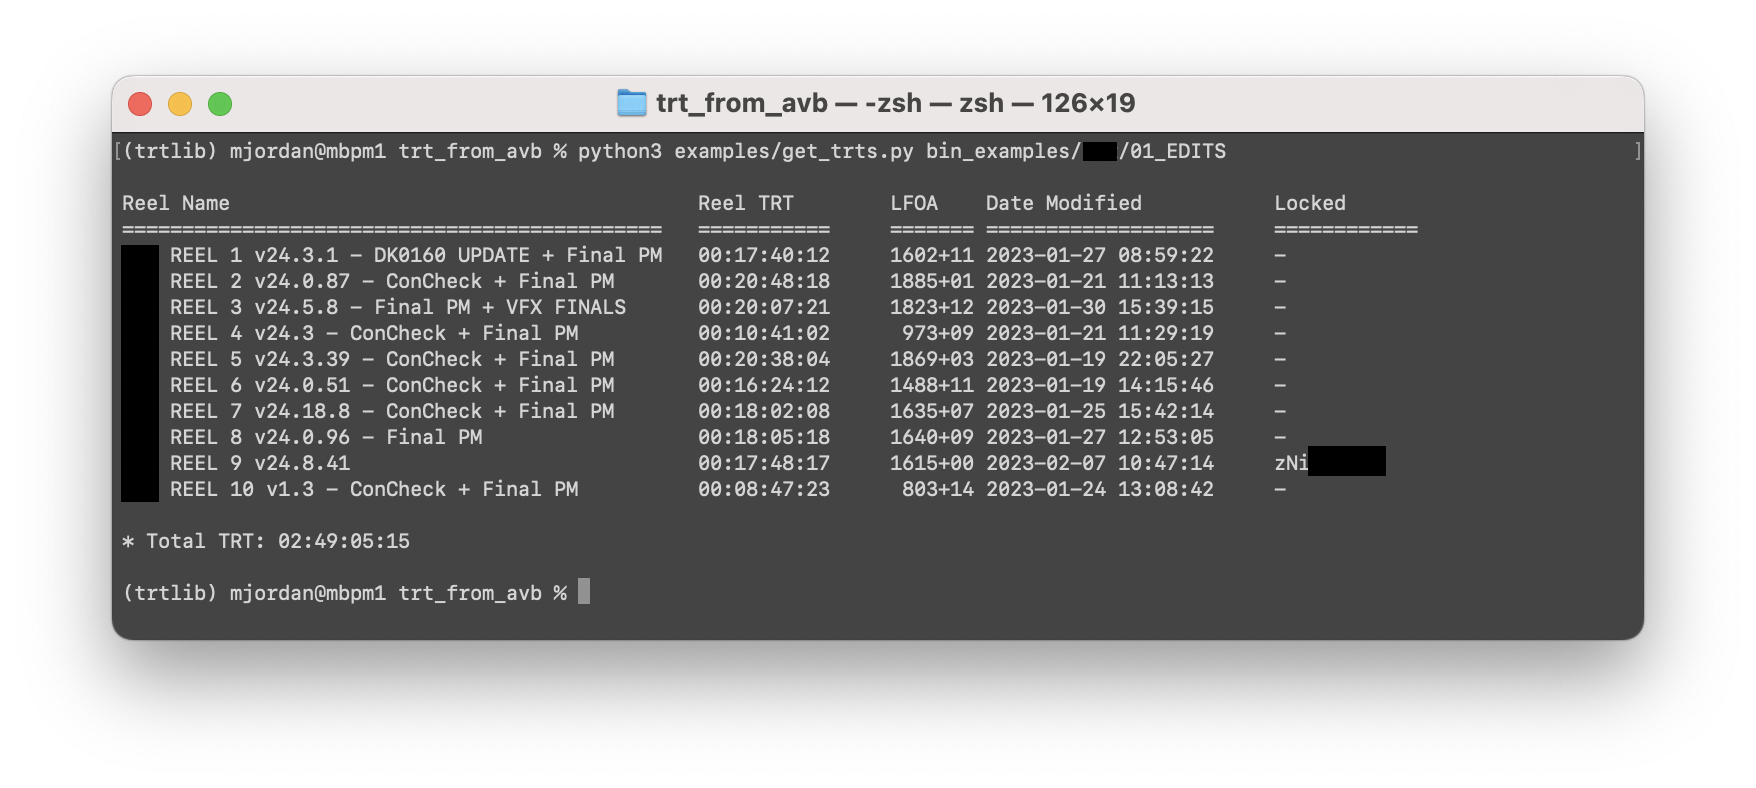
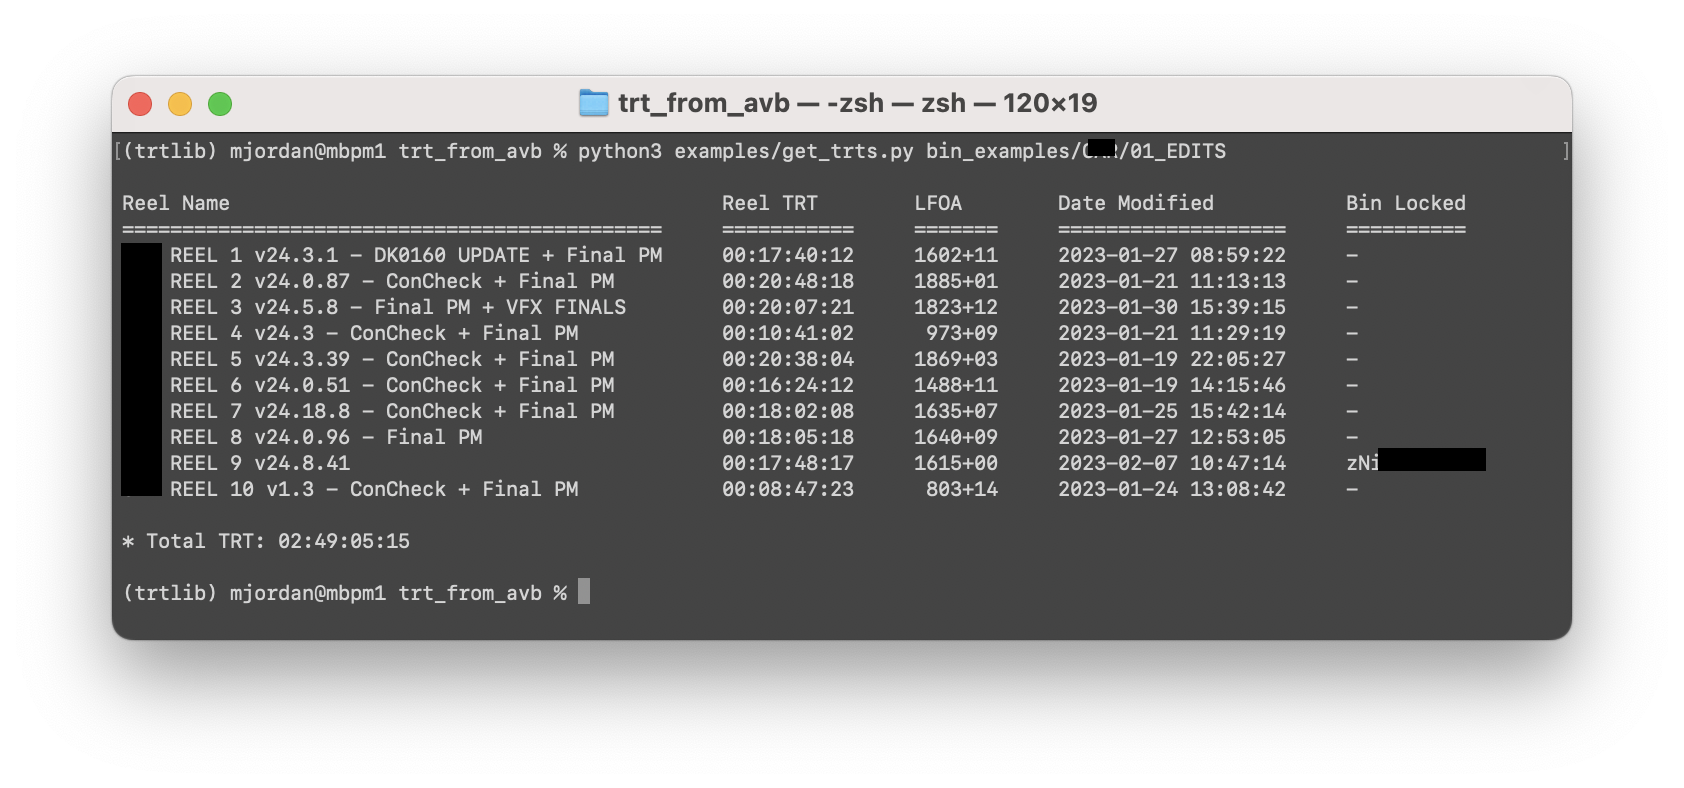
Formatting update

diff --git a/examples/get_trts.py b/examples/get_trts.py
@@ -10,6 +10,15 @@ USAGE = f"Usage: {__file__} path/to/avbs [--head 8:00] [--tail 3:23]"
 SLATE_HEAD_DURATION = Timecode("8:00")
 SLATE_TAIL_DURATION = Timecode("3:23")
 
+HEADERS = {
+	"Reel Name"     : 0,
+	"Reel TRT"      : 11,
+	"LFOA"          : 7,
+	"Date Modified" : 19,
+	"Bin Locked"    : 10
+}
+COLUMN_SPACING = "     "
+
 def list_latest_trt_from_bins(bins_path:str):
 	"""Example"""
 
@@ -19,8 +28,6 @@ def list_latest_trt_from_bins(bins_path:str):
 
 	if not bin_paths:
 		raise FileNotFoundError(f"No bins found at {bins_path}")
-	
-	padding = 0
 
 	for bin_path in bin_paths:
 		#print(bin_path)
@@ -37,22 +44,26 @@ def list_latest_trt_from_bins(bins_path:str):
 			lock = lock
 		))
 		
-		padding = max(padding, len(info.sequence_name))
+		HEADERS["Reel Name"] = max(HEADERS.get("Reel Name",0), len(info.sequence_name))
 	
 	if not len(parsed_info):
 		raise Exception(f"No sequences were found in any bins.")
 
+	# This is terrible code but you get the idea
 	print("")
-	print(f"{'Reel Name'.ljust(padding)}	Reel TRT   	LFOA   	Date Modified      	Locked")
-	print(f"{'=' * padding}\t{'='*len('Reel TRT  	')}\t{'='*7}\t{'='*19}\t{'='*12}")
+
+	print(COLUMN_SPACING.join(colname.ljust(pad) for colname, pad in HEADERS.items()))
+	print(COLUMN_SPACING.join('=' * pad for _, pad in HEADERS.items()))
+
+	padding = list(HEADERS.values())
 
 	for info in sorted(parsed_info, key=lambda x: trtlib.human_sort(x.reel.sequence_name)):
-		print('\t'.join(str(x) for x in [
-			info.reel.sequence_name.ljust(padding),
-			info.reel.duration_adjusted,
-			info.reel.lfoa.rjust(7),
-			info.reel.date_modified,
-			info.lock if info.lock else '-',
+		print(COLUMN_SPACING.join(x for x in [
+			info.reel.sequence_name.ljust(padding[0]),
+			str(info.reel.duration_adjusted).rjust(padding[1]),
+			info.reel.lfoa.rjust(padding[2]),
+			str(info.reel.date_modified).rjust(padding[3]),
+			info.lock.ljust(padding[4]) if info.lock else '-',
 		]))
 	
 	print("")
